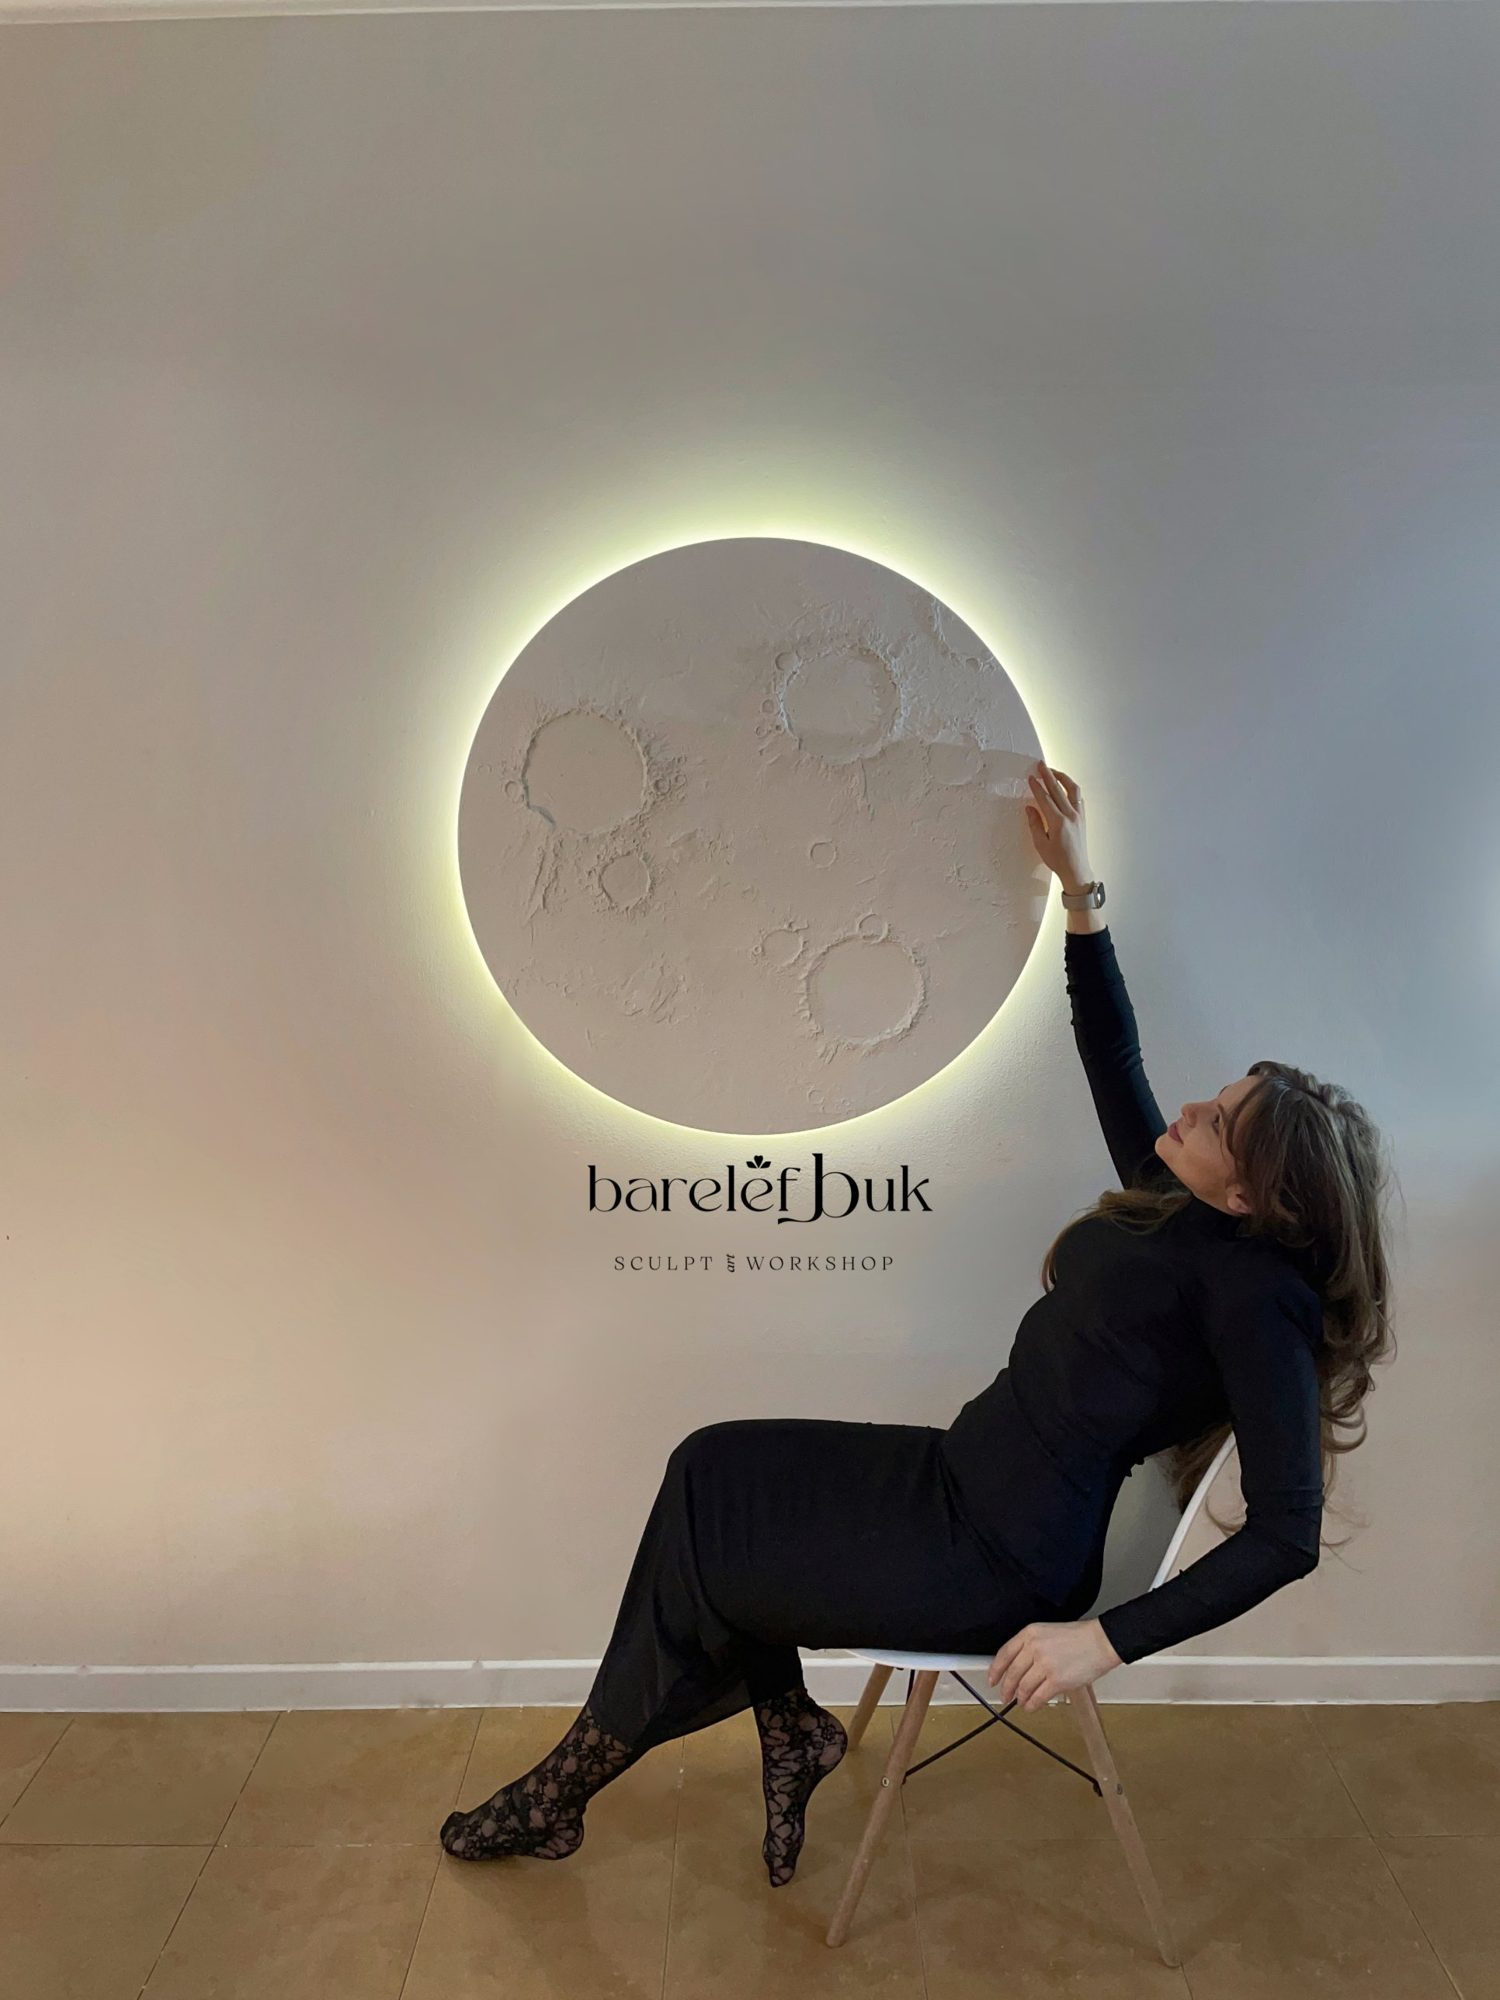
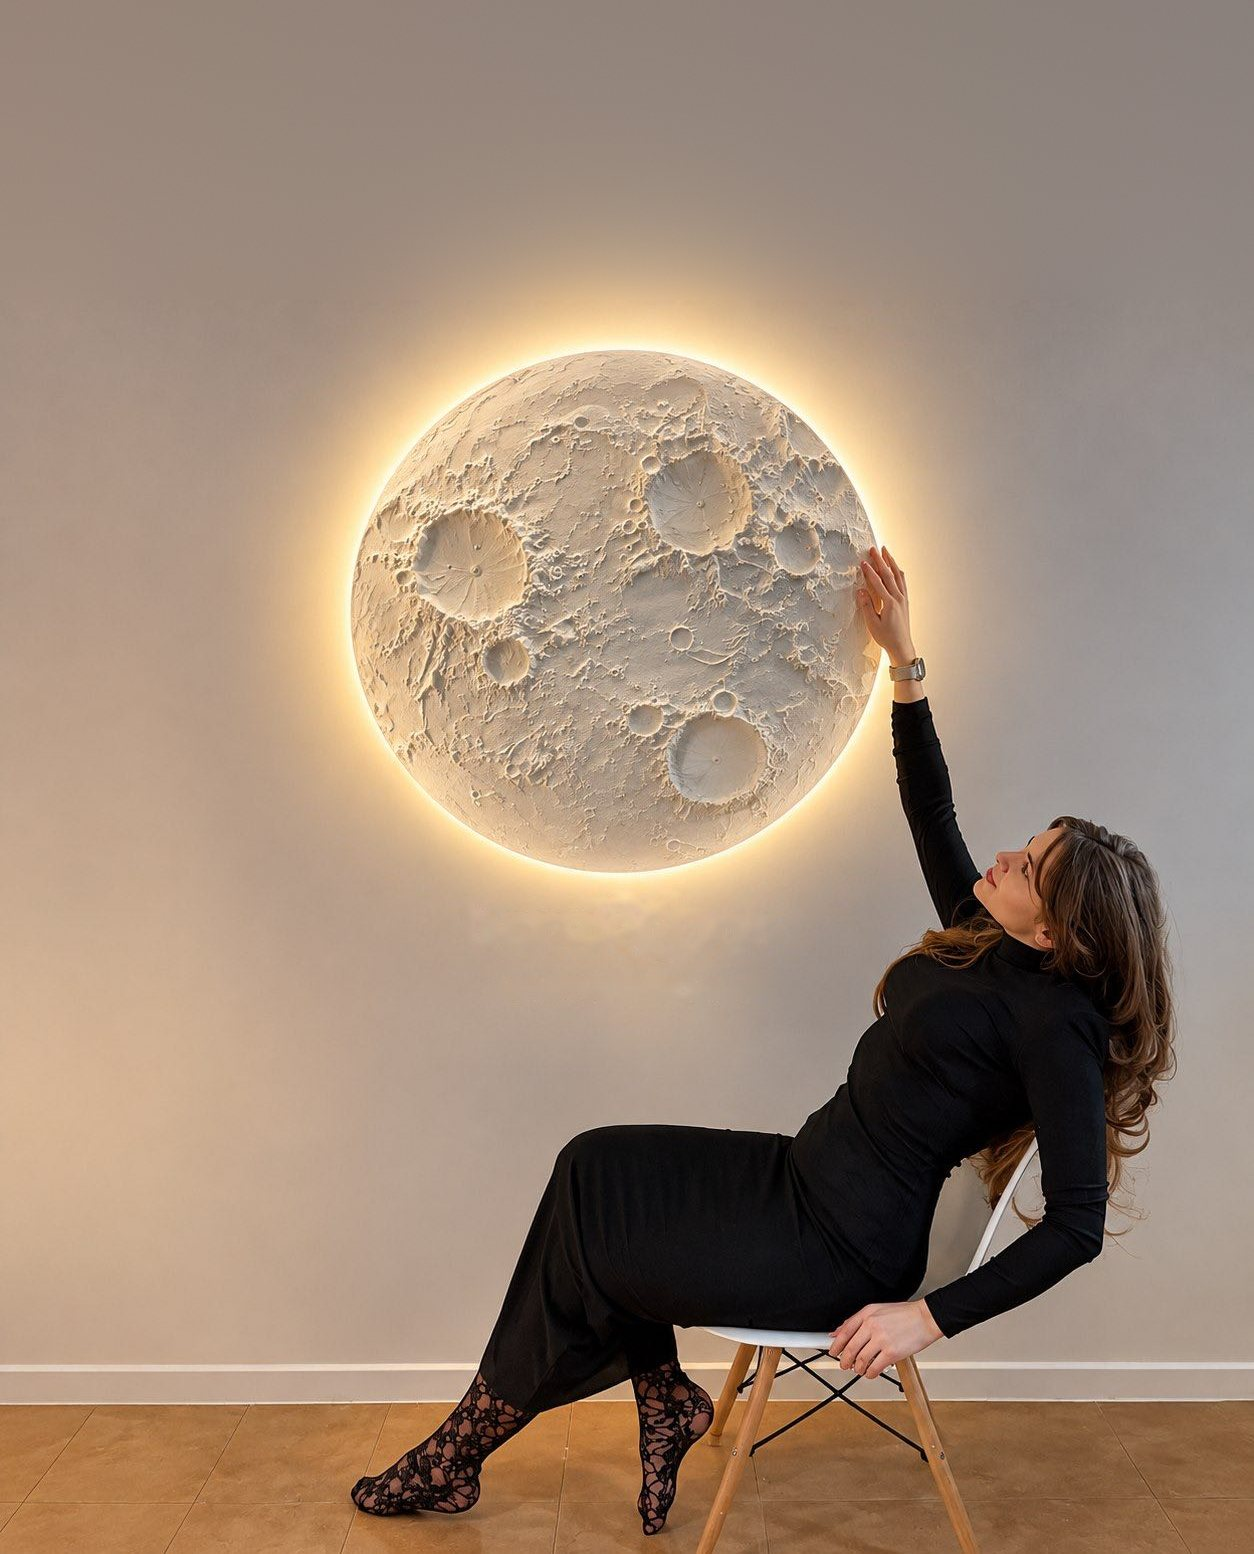
Add files via upload

diff --git a/index.html b/index.html
@@ -32,7 +32,7 @@
     flex-direction: column;
     justify-content: space-between;
     padding:
-      max(clamp(28px, 7vh, 64px), env(safe-area-inset-top))
+      max(clamp(22px, 4.5vh, 40px), env(safe-area-inset-top))
       16px
       max(20px, env(safe-area-inset-bottom));
     background: #d9d3cd url("bg.jpg") var(--bg-x) 50% / cover no-repeat;
@@ -40,11 +40,12 @@
   }
 
   .head { text-align: center; color: var(--ink); }
-  .title {
-    font-weight: 600;
-    font-size: clamp(30px, 9vw, 40px);
-    line-height: 1.1;
-    letter-spacing: -.01em;
+  .title { line-height: 0; }
+  .logo {
+    display: block;
+    width: clamp(220px, 66vw, 300px);
+    height: auto;
+    margin: 0 auto;
   }
   .sub {
     margin: 8px auto 0;
@@ -85,6 +86,10 @@
     transition: transform .15s ease, filter .15s ease;
   }
   .btn.wide { grid-column: 1 / -1; }
+  .btn.contact { min-height: clamp(52px, 7vh, 60px); gap: 8px; }
+  .btn .txt { display: flex; flex-direction: column; align-items: flex-start; line-height: 1.25; min-width: 0; }
+  .btn .txt b { font-weight: 500; font-size: clamp(12px, 3.6vw, 15px); }
+  .btn .txt small { font-size: clamp(10px, 2.9vw, 12px); font-weight: 400; opacity: .85; }
   .btn:active { transform: scale(.98); filter: brightness(1.12); }
   .btn:focus-visible { outline: 2px solid #fff; outline-offset: 2px; }
   .btn svg {
@@ -101,6 +106,7 @@
   @media (max-width: 340px) {
     .btn { padding: 0 8px; gap: 6px; }
     .btn svg { width: 18px; height: 18px; }
+    .btn.contact svg { display: none; }
   }
 
   @keyframes rise {
@@ -116,7 +122,7 @@
 <body>
   <main class="screen">
     <header class="head">
-      <h1 class="title">Барельеф Бук</h1>
+      <h1 class="title"><img class="logo" src="logo.png" width="900" height="185" alt="Барельеф Бук"></h1>
       <p class="sub">Барельефы и гипсовые 3D картины</p>
     </header>
 
@@ -133,13 +139,17 @@
         <svg viewBox="0 0 24 24" aria-hidden="true"><path d="M21 4 3 11l5.5 2L19 6.5 10 14.2V19l2.8-2.7 4.4 3.2L21 4Z"/></svg>
         Написать: @Barelef_buk
       </a>
-      <a class="btn wide" style="--i:3" href="tel:+79289519811">
-        <svg viewBox="0 0 24 24" aria-hidden="true"><path d="M22 16.92v3a2 2 0 0 1-2.18 2 19.79 19.79 0 0 1-8.63-3.07 19.5 19.5 0 0 1-6-6 19.79 19.79 0 0 1-3.07-8.67A2 2 0 0 1 4.11 2h3a2 2 0 0 1 2 1.72c.13.96.36 1.9.7 2.81a2 2 0 0 1-.45 2.11L8.09 9.91a16 16 0 0 0 6 6l1.27-1.27a2 2 0 0 1 2.11-.45c.91.34 1.85.57 2.81.7A2 2 0 0 1 22 16.92Z"/></svg>
-        +7 (928) 951-98-11
+      <a class="btn contact" style="--i:3" href="contact.vcf" type="text/vcard" aria-label="Добавить контакт, номер +7 928 951-98-11">
+        <svg viewBox="0 0 24 24" aria-hidden="true"><path d="M16 21v-2a4 4 0 0 0-4-4H6a4 4 0 0 0-4 4v2"/><circle cx="9" cy="7" r="4"/><path d="M19 8v6M22 11h-6"/></svg>
+        <span class="txt"><b>+7 928 951-98-11</b><small>Добавить контакт</small></span>
       </a>
-      <a class="btn wide" style="--i:4" href="tel:+79283272083">
-        <svg viewBox="0 0 24 24" aria-hidden="true"><path d="M22 16.92v3a2 2 0 0 1-2.18 2 19.79 19.79 0 0 1-8.63-3.07 19.5 19.5 0 0 1-6-6 19.79 19.79 0 0 1-3.07-8.67A2 2 0 0 1 4.11 2h3a2 2 0 0 1 2 1.72c.13.96.36 1.9.7 2.81a2 2 0 0 1-.45 2.11L8.09 9.91a16 16 0 0 0 6 6l1.27-1.27a2 2 0 0 1 2.11-.45c.91.34 1.85.57 2.81.7A2 2 0 0 1 22 16.92Z"/></svg>
-        +7 (928) 327-20-83
+      <a class="btn contact" style="--i:4" href="contact.vcf" type="text/vcard" aria-label="Добавить контакт, номер +7 928 327-20-83">
+        <svg viewBox="0 0 24 24" aria-hidden="true"><path d="M16 21v-2a4 4 0 0 0-4-4H6a4 4 0 0 0-4 4v2"/><circle cx="9" cy="7" r="4"/><path d="M19 8v6M22 11h-6"/></svg>
+        <span class="txt"><b>+7 928 327-20-83</b><small>Добавить контакт</small></span>
+      </a>
+      <a class="btn wide" style="--i:5" href="https://barelef-buk.ru" target="_blank" rel="noopener">
+        <svg viewBox="0 0 24 24" aria-hidden="true"><circle cx="12" cy="12" r="10"/><path d="M2 12h20"/><path d="M12 2a15.3 15.3 0 0 1 4 10 15.3 15.3 0 0 1-4 10 15.3 15.3 0 0 1-4-10 15.3 15.3 0 0 1 4-10Z"/></svg>
+        Наш сайт
       </a>
     </nav>
   </main>
